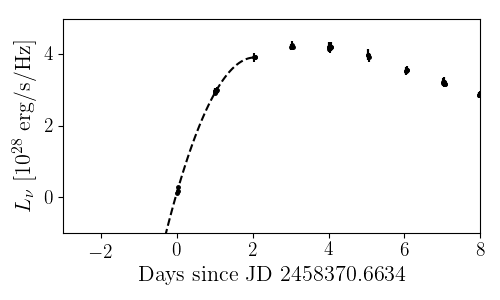
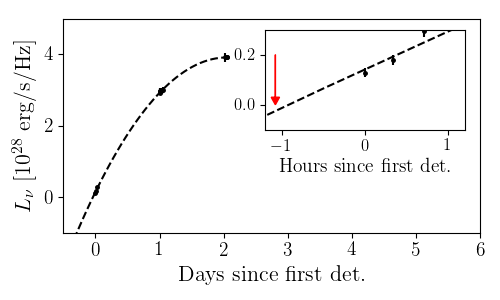
clip more lines

diff --git a/code/paper_plots/spec_sequence.py b/code/paper_plots/spec_sequence.py
@@ -85,11 +85,14 @@ def load_spec(f):
 
 def plot_spec(ax, x, y, tel, epoch):
     """ plot the spectrum """
-    choose = y >= 0 
-    plt.plot(x[choose], y[choose], c='k', drawstyle='steps-mid', lw=0.5)
-    plt.ylabel(r"Flux $f_{\lambda}$", fontsize=16)
-    plt.xlabel(r"Observed Wavelength (\AA)", fontsize=16)
-    plt.tick_params(labelsize=14)
+    choose_y = y >= 0
+    choose_x = np.logical_and(x >= 3200, x<= 9300)
+    choose = np.logical_and(choose_x, choose_y)
+    ax.plot(x[choose], y[choose], c='k', drawstyle='steps-mid', lw=0.5)
+    ax.set_ylabel(r"Flux $f_{\lambda}$", fontsize=16)
+    ax.set_xlabel(r"Observed Wavelength (\AA)", fontsize=16)
+    ax.set_xlim(3000, 10000)
+    ax.tick_params(labelsize=14)
     dt_str = r"$\Delta t$=%s d" %str(np.round(epoch, 1))
     ax.text(
             0.98, 0.9, s=dt_str, 
@@ -99,17 +102,17 @@ def plot_spec(ax, x, y, tel, epoch):
             0.98, 0.7, s=tel, 
             horizontalalignment='right', verticalalignment='center', 
             fontsize=14, transform=ax.transAxes)
+    return ax
 
 
 def choose_lines(z, dt):
     """ choose galaxy emission lines given the epoch """
-    halpha = np.array([6563])
-    hbeta = np.array([4861])
-    hgamma = np.array([4341]) 
-    oiii = np.array([4932.6, 4960.295, 5008.24]) # O III
+    balmer = np.array([6564.61, 4862.68, 4341.68, 4102.89, 3970.072])
+    oiii = np.array([4363, 4932.6, 4960.295, 5008.24]) # O III
+    oii = np.array([3727.092, 3729.875])
     nii = np.array([6549.86])
     oi = np.array([6302.046, 6365.536])
-    gal_wl = np.hstack((halpha, hbeta, oiii)) * (z+1)
+    gal_wl = np.hstack((balmer, oiii, oii)) * (z+1)
     return gal_wl
 
 
@@ -118,7 +121,7 @@ def plot_lines(z, tel, dt):
     if tel == 'LT':
         res = 18 # Angstrom, res at central wavelength
     else:
-        res = 18 # temp 
+        res = 30 # temp 
     #elif tel == 'DBSP':
     gal_wl = choose_lines(z, dt)
     for val in gal_wl:
@@ -129,9 +132,9 @@ def plot_lines(z, tel, dt):
 def clip_lines(wl, flux, z, tel, dt):
     if tel == 'LT':
         res = 18 # Angstrom, res at central wavelength
-        res = 20 # add a couple of Ang?
+        res = 30 # add a couple of Ang?
     else:
-        res = 20 # placeholder, I don't actually know what it is
+        res = 30 # placeholder, I don't actually know what it is
     gal_wl = choose_lines(z, dt)
     for line in gal_wl:
         choose = np.logical_and(wl >= line-res/2, wl <= line+res/2)
@@ -160,10 +163,13 @@ def plot_tellurics():
 
 
 if __name__=="__main__":
-    fig,ax = plt.subplots(1,1,figsize=(9,5))
     files, epochs, tels = get_files()
-    for ii in np.arange(len(files)):
-        f = files[ii]
+    files = files[16:]
+    epochs = epochs[16:]
+    tels = tels[16:]
+    for ii,f in enumerate(files):
+        print(f)
+        fig,ax = plt.subplots(1,1,figsize=(9,5))
         tel = tels[ii]
         dt = epochs[ii]
         z = 0.0322
@@ -171,8 +177,8 @@ if __name__=="__main__":
         wl, flux = clip_lines(wl, flux, z, tel, dt)
         wl, flux = clip_tellurics(wl, flux)
         plot_spec(ax, wl, flux, tel, dt)
-        #plot_lines(z, tel, dt)
+        plot_lines(z, tel, dt)
         plt.tight_layout()
-        #plt.show()
-        plt.savefig("spec_%s.png" %ii)
-        plt.close()
+        plt.show()
+        #plt.savefig("spec_%s.png" %ii)
+        #plt.close()

diff --git a/code/paper_plots/fit_expl_epoch.py b/code/paper_plots/fit_expl_epoch.py
@@ -4,6 +4,8 @@ to the g-band light curve """
 
 import numpy as np
 import matplotlib.pyplot as plt
+from mpl_toolkits.axes_grid1.inset_locator import inset_axes
+from mpl_toolkits.axes_grid1.inset_locator import mark_inset
 from matplotlib import rc
 rc("font", family="serif")
 rc("text", usetex=True)
@@ -15,7 +17,7 @@ DATA_DIR = "/Users/annaho/Dropbox/Projects/Research/ZTF18abukavn/data/phot"
 f = DATA_DIR + "/ZTF18abukavn_opt_phot.dat"
 dat = np.loadtxt(f, dtype=str, delimiter=' ')
 instr = dat[:,0]
-mjd = dat[:,1].astype(float)
+jd = dat[:,1].astype(float)
 filt = dat[:,2]
 mag = dat[:,3].astype(float)
 emag = dat[:,4].astype(float)
@@ -23,7 +25,8 @@ emag = dat[:,4].astype(float)
 det = np.logical_and(mag<99, ~np.isnan(mag))
 tofit = np.logical_and(instr=='P48+ZTF', filt=='g')
 choose = np.logical_and(det, tofit)
-dt = mjd[choose]-mjd[choose][0]
+t0 = jd[choose][0]
+dt = jd[choose]-t0
 
 # Initialize the figure
 fig,ax = plt.subplots(1,1,figsize=(5,3))
@@ -39,21 +42,44 @@ elum = 4 * np.pi * d**2 * eflux
 # Plot the light curve
 ax.errorbar(dt, lum/1E28, yerr=elum/1E28, c='k', ms=5, fmt='.')
 
+# Plot the r-band non-detection
+#ax.scatter(2458370.6408-t0, (10**(-(20.47+48.6)/2.5))/1E28, marker='.', c='r')
+ax.arrow((2458370.6408-t0)*24, 0.2,
+        0, -0.2, length_includes_head=True,
+        head_width=0.1, head_length=0.03, fc='r', ec='r')
+
+# Inset axis
+axins = inset_axes(
+        ax, 2, 1, loc=1,
+        bbox_to_anchor=(0.98,0.98),
+        bbox_transform=ax.transAxes)
+axins.arrow((2458370.6408-t0)*24, 0.2,
+        0, -0.2, length_includes_head=True,
+        head_width=0.1, head_length=0.03, fc='r', ec='r')
+# axins.scatter(
+#         (2458370.6408-t0)*24, (10**(-(20.47+48.6)/2.5))/1E28,
+#         marker='.', c='r')
+axins.errorbar(dt*24, lum/1E28, yerr=elum/1E28, c='k', ms=5, fmt='.')
+axins.set_xlim(-0.05*24,0.05*24)
+axins.set_ylim(-0.1,0.3)
+
 # Fit a polynomial (quadratic)
 sec = dt < 3
 
 out,cov = np.polyfit(dt[sec], lum[sec], deg=2, w=1/elum[sec], cov=True)
 xlab = np.linspace(-1,2)
 ylab = out[0]*xlab**2 + out[1]*xlab + out[2]
-plt.plot(xlab, ylab/1E28, c='k', ls='--')
-
-# Plot the last upper limit
+ax.plot(xlab, ylab/1E28, c='k', ls='--')
+axins.plot(xlab*24, ylab/1E28, c='k', ls='--')
 
 ax.set_ylabel(r"$L_\nu$ [$10^{28}$ erg/s/Hz]", fontsize=16)
-ax.set_xlabel("Days since JD 2458370.6634", fontsize=16)
+ax.set_xlabel("Days since first det.", fontsize=16)
+axins.set_xlabel("Hours since first det.", fontsize=14)
 ax.yaxis.set_tick_params(labelsize=14)
+axins.yaxis.set_tick_params(labelsize=12)
 ax.xaxis.set_tick_params(labelsize=14)
-ax.set_xlim(-3, 8)
+axins.xaxis.set_tick_params(labelsize=12)
+ax.set_xlim(-0.5, 6)
 ax.set_ylim(-1,5)
 
 # Print fitting parameters
